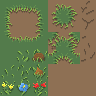
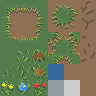
Random terrain generation

Changed region(s): [[0.5, 0.6562, 0.8438, 1.0]]

diff --git a/src/game/main/LevelLoader.java b/src/game/main/LevelLoader.java
@@ -25,7 +25,7 @@ public class LevelLoader {
 	
 	private Game game;
 	private static Random r = new Random();
-	private static OpenSimplexNoise noise = new OpenSimplexNoise();
+	private static OpenSimplexNoise noise;
 	
 	public static ArrayList<ArrayList<Long>> listdata;
 	public static ArrayList<Rectangle> rectangle_bounds;
@@ -171,7 +171,28 @@ public class LevelLoader {
 	}
 	
 	public static void LoadLevelHeightMap(Handler handler) {
-		BufferedImage map = Textures.height_map;
+		float[][] osn = generateOctavedSimplexNoise(50, 50, 3, 0.4f, 0.05f);
+		for(int y = 0;y<osn.length;y++) {
+			for(int x = 0;x<osn[y].length;x++) {
+				float val = osn[x][y];
+				if(val < -0.2) {
+					handler.addObjectNoTick(new Tile(x*16, y*16, ID.Tile, Textures.tileSetBlocks.get(27)));
+				}else if(val < 0 && val > -0.2){
+					handler.addObjectNoTick(new Tile(x*16, y*16, ID.Tile, Textures.tileSetBlocks.get(7)));
+				}else if(val > 0.5 && val < 0.9){
+					handler.addObjectNoTick(new Tile(x*16, y*16, ID.Tile, Textures.tileSetBlocks.get(33)));
+				}else if(val > 0.9) {
+					handler.addObjectNoTick(new Tile(x*16, y*16, ID.Tile, Textures.tileSetBlocks.get(34)));
+				} else {
+					handler.addObjectNoTick(new Tile(x*16, y*16, ID.Tile, Textures.tileSetBlocks.get(18)));
+				}
+				
+				
+				
+			}
+		}
+		
+		/*BufferedImage map = Textures.height_map;
 		int w = map.getWidth();
 		int h = map.getHeight();
 
@@ -306,11 +327,11 @@ public class LevelLoader {
 					
 				}
 			}
-		}
+		}*/
 	}
 	
 	public static BufferedImage getHeightMap(int width, int height) {
-		float[][] osn = generateOctavedSimplexNoise(width, height, 3, 0.4f, 0.05f);
+		/*float[][] osn = generateOctavedSimplexNoise(width, height, 3, 0.4f, 0.05f);
 		BufferedImage img = new BufferedImage(width, height, BufferedImage.TYPE_INT_ARGB);
 		for(int y = 0;y<osn.length;y++) {
 			for(int x = 0;x<osn[y].length;x++) {
@@ -319,10 +340,10 @@ public class LevelLoader {
 				int p = (255<<24) | (v<<16) | (v<<8) | (v);
 				img.setRGB(x, y, p);
 			}
-		}
+		}*/
 		
 		
-		return img;
+		return null;
 	}
 	
 	public static float[][] generateOctavedSimplexNoise(int width, int height, int octaves, float roughness, float scale){
@@ -330,6 +351,9 @@ public class LevelLoader {
 	    float layerFrequency = scale;
 	    float layerWeight = 1;
 	    float weightSum = 0;
+	    Long seed = r.nextLong();
+	    System.out.println(seed);
+	    noise = new OpenSimplexNoise(seed);
 
 	    for (int octave = 0; octave < octaves; octave++) {
 	          //Calculate single layer/octave of simplex noise, then add it to total noise

diff --git a/src/game/main/Game.java b/src/game/main/Game.java
@@ -27,7 +27,7 @@ public class Game extends Canvas implements Runnable{
 	public static final float SCALE_WIDTH = ((float) NEW_WIDTH) / WIDTH, SCALE_HEIGHT = ((float) NEW_HEIGHT) / HEIGHT;
 	public static final String TITLE = "2D Platformer";
 	public static final int FPS = 60;
-	public static final String VERSION = "ALPHA V 1.6.3";
+	public static final String VERSION = "ALPHA V 1.7.0";
 
 	private Thread thread;
 	private boolean running = true;
